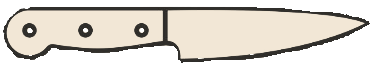
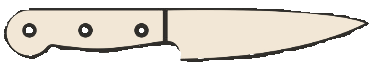
tv info

diff --git a/experience.html b/experience.html
@@ -27,78 +27,54 @@
     <main>
         <section>
             <h1> Experience Page</h1>
-            <h2>Click a section to see all the cool things I have done!</h2>
+            <h2>Some of the shows I've done!</h2>
             <img src="./images/rollingPinLightMode.png" class="rollingPin" id="lightMode">
             <img src="./images/rollingPinDarkMode.png" class="rollingPin" id="darkMode">
         </section>
         <div id="accordion">
-            <h3>Section 1</h3>
+            <h3>Boiling Point</h3>
             <div>
+                <p>
+                    This TV series was Gordon Ramsay's first. Airing in 1999, it was a documentary that followed Ramsay and his opening of his restaurant Restaurant Gordon Ramsay.
+                    It only had 5 episodes, but it did have a follow up series in 2000, Beyond Boiling Point, about Ramsay's life after opening Restaurant Gordon Ramsay.
+                </p>
+            </div>
+            <h3>Hell's Kitchen</h3>
+            <div>
+                <p>
+                Gordon Ramsay created Hell's Kitchen, which is a cooking competition in the UK that aired from 2004 to 2009. Ramsay also hosts the American version of the show 
+                which has the same name. This series started in 2005 and it currently has 23 seasons. In each season, two teams compete to be head chef at a restaurant.
+                </p>
+            </div>
+            <h3>Kitchen Nightmares</h3>
+            <div>
+                <p>
+                Another one of Gordon Ramsay's shows with both a UK version and an American version. 
+                This is a show that follow Ramsay as he works with failing restaurants. He spends a week trying to help the business improve.
+                He then returns after a while to see how the business did after he left.
+                </p>
                 <img src="./images/chefFiller.jpg">
-                <p>
-                Mauris mauris ante, blandit et, ultrices a, suscipit eget, quam. Integer
-                ut neque. Vivamus nisi metus, molestie vel, gravida in, condimentum sit
-                amet, nunc. Nam a nibh. Donec suscipit eros. Nam mi. Proin viverra leo ut
-                odio. Curabitur malesuada. Vestibulum a velit eu ante scelerisque vulputate.
-                </p>
-                
             </div>
-            <h3>Section 2</h3>
+            <h3>Masterchef</h3>
             <div>
                 <p>
-                Sed non urna. Donec et ante. Phasellus eu ligula. Vestibulum sit amet
-                purus. Vivamus hendrerit, dolor at aliquet laoreet, mauris turpis porttitor
-                velit, faucibus interdum tellus libero ac justo. Vivamus non quam. In
-                suscipit faucibus urna.
-                </p>
-            </div>
-            <h3>Section 3</h3>
-            <div>
-                <p>
-                Nam enim risus, molestie et, porta ac, aliquam ac, risus. Quisque lobortis.
-                Phasellus pellentesque purus in massa. Aenean in pede. Phasellus ac libero
-                ac tellus pellentesque semper. Sed ac felis. Sed commodo, magna quis
-                lacinia ornare, quam ante aliquam nisi, eu iaculis leo purus venenatis dui.
-                </p>
-                <ul>
-                <li>List item one</li>
-                <li>List item two</li>
-                <li>List item three</li>
-                </ul>
-            </div>
-            <h3>Section 4</h3>
-            <div>
-                <p>
-                Cras dictum. Pellentesque habitant morbi tristique senectus et netus
-                et malesuada fames ac turpis egestas. Vestibulum ante ipsum primis in
-                faucibus orci luctus et ultrices posuere cubilia Curae; Aenean lacinia
-                mauris vel est.
+                Gordon Ramsay has been a judge on Masterchef USA for all 14 of its seasons. The show is another cooking competition and it first aired in 2010. 
+                The contestants compete in various kinds of competitions to be the winnner for that season. 
+                The winner gets various prizes, including $250000, the Masterchef trophy and the title of Masterchef.
                 </p>
                 <p>
-                Suspendisse eu nisl. Nullam ut libero. Integer dignissim consequat lectus.
-                Class aptent taciti sociosqu ad litora torquent per conubia nostra, per
-                inceptos himenaeos.
+                Ramsay has also judged on all 9 season of Masterchef Junior. Which is a competition for kids age 8-13, with similar challenges and prizes as Masterchef.
                 </p>
             </div>
         </div>
-        <br>
-        
-        <div>
-            Tempus risus placerat commodo montes mus efficitur phasellus. Ac lorem nibh; molestie sociosqu odio maximus. Facilisi semper volutpat massa viverra tincidunt. Mus neque scelerisque parturient finibus potenti tempus enim fringilla platea. Blandit nisl potenti non elit; lacus orci etiam. Eget orci nullam habitasse, conubia cubilia netus massa morbi id. Praesent facilisi consectetur gravida nascetur sapien mus.
-        </div>
-        <br>
-        <br>
-        <div>
-            Sollicitudin at ornare netus leo vestibulum enim. Nisi risus ornare aliquam; ultricies netus rhoncus. Tellus neque mi natoque quisque cursus pharetra pulvinar. Praesent massa tristique at risus enim suscipit augue. Porta elementum sodales phasellus sagittis faucibus praesent integer ante. Dolor ultrices lacus rutrum lacus phasellus morbi semper lectus ultrices. Id eros nisl auctor sociosqu sagittis sodales tellus dictum aliquet. Est et habitant sagittis vivamus sollicitudin accumsan rhoncus.
-        </div>
-        <br>
-        <br>
-        <div>
-            Tempus risus placerat commodo montes mus efficitur phasellus. Ac lorem nibh; molestie sociosqu odio maximus. Facilisi semper volutpat massa viverra tincidunt. Mus neque scelerisque parturient finibus potenti tempus enim fringilla platea. Blandit nisl potenti non elit; lacus orci etiam. Eget orci nullam habitasse, conubia cubilia netus massa morbi id. Praesent facilisi consectetur gravida nascetur sapien mus.
-        </div>
-
-        <h2>Videos From My Youtube Channel</h2>
-        <div id="videos" class="video-container"></div>
+        <section>
+            <h2>Youtube</h2>
+            <p>
+                Gordon Ramsay started a youtube channel 15 years ago. It is full of various kinds of videos such as tutorials and tips, funny clips and even full episodes of some of his shows.
+            </p>
+            <h2>Videos From Gordon Ramsay's Youtube Channel</h2>
+            <div id="videos" class="video-container"></div>
+        </section>
     </main>
     <footer>
         <div class="footer"> Footer &copy; Copyright 2025 </div>

diff --git a/scripts/experience.js b/scripts/experience.js
@@ -27,6 +27,7 @@ $(document).ready( function() {
         }
     });
 
+    // rolling pin animations
     $(".rollingPin").click(function(){
         $(".rollingPin").animate({borderSpacing: +720 }, {
             step: function(now, fx) {$(this).css('transform','rotate('+now+'deg)');},duration:1000},'linear')
